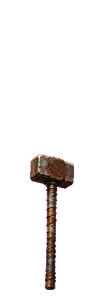
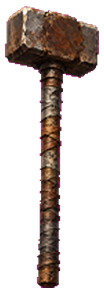
Gravemark: weapons fill their canvases, swings keep the arms in range, trail only through the strike
The delivered weapons sat in the lower half of their canvas, so every one
drew at half size with the grip off the hand and the scythe was a stick;
they are refit with the grip at the bottom. Wind-ups that turned an upper
arm 150-190 degrees over the head hung the painted sleeve upside down off
its pivot; draws now stop about the shoulder line. The trail is thinner and
recorded only through the strike, not the whole arc.

Claude-Session: https://claude.ai/code/session_01L4YgmXtn1U1rMqPTfw2Rbr

diff --git a/gravemark/src/07-data-rig.js b/gravemark/src/07-data-rig.js
@@ -222,15 +222,20 @@ anim("walk", 0.72, true, {
 
 /* --- the hero's five swings ---
    The strike is always the "hit" event; VFX and damage key off it. Root x is
-   the lunge, root sx/sy the impact squash, torso the lean. */
+   the lunge, root sx/sy the impact squash, torso the lean.
+
+   Arm angles stay inside what a painted sleeve can do: an upper arm turned
+   150-190 degrees over the head hangs upside down off its shoulder pivot and
+   reads as a loose chunk, not a wind-up. Draws go to about the shoulder line
+   (-75) and only the maul lifts higher (-110). */
 anim("attack_sword", 0.62, false, {
   root:   [{ t: 0, x: 0, sx: 1, sy: 1 }, { t: 0.32, x: -10, sx: 0.97, sy: 1.03 }, { t: 0.5, x: 30, sx: 1.06, sy: 0.95, e: "out" }, { t: 0.78, x: 18 }, { t: 1, x: 0, sx: 1, sy: 1 }],
   torso:  [{ t: 0, a: 0 }, { t: 0.32, a: -16 }, { t: 0.5, a: 22 }, { t: 0.78, a: 10 }, { t: 1, a: 0 }],
   head:   [{ t: 0, a: 0 }, { t: 0.32, a: 8 }, { t: 0.5, a: -10 }, { t: 1, a: 0 }],
-  uarm_f: [{ t: 0, a: 0 }, { t: 0.32, a: -150 }, { t: 0.5, a: 20, e: "out" }, { t: 0.78, a: 40 }, { t: 1, a: 0 }],
-  farm_f: [{ t: 0, a: 0 }, { t: 0.32, a: -60 }, { t: 0.5, a: 30 }, { t: 0.78, a: 20 }, { t: 1, a: 0 }],
+  uarm_f: [{ t: 0, a: 0 }, { t: 0.32, a: -75 }, { t: 0.5, a: 20, e: "out" }, { t: 0.78, a: 30 }, { t: 1, a: 0 }],
+  farm_f: [{ t: 0, a: 0 }, { t: 0.32, a: -50 }, { t: 0.5, a: 30 }, { t: 0.78, a: 20 }, { t: 1, a: 0 }],
   weapon: [{ t: 0, a: 0 }, { t: 0.32, a: -40 }, { t: 0.5, a: 60 }, { t: 0.78, a: 50 }, { t: 1, a: 0 }],
-  uarm_b: [{ t: 0, a: 0 }, { t: 0.32, a: 30 }, { t: 0.5, a: -40 }, { t: 1, a: 0 }],
+  uarm_b: [{ t: 0, a: 0 }, { t: 0.32, a: 20 }, { t: 0.5, a: -30 }, { t: 1, a: 0 }],
   thigh_f:[{ t: 0, a: 0 }, { t: 0.5, a: -24 }, { t: 1, a: 0 }],
   thigh_b:[{ t: 0, a: 0 }, { t: 0.5, a: 20 }, { t: 1, a: 0 }]
 }, [{ t: 0.5, name: "hit" }]);
@@ -248,10 +253,10 @@ anim("attack_maul", 0.92, false, {
   root:   [{ t: 0, x: 0, sx: 1, sy: 1 }, { t: 0.4, x: -12, sy: 1.04 }, { t: 0.58, x: 24, sx: 1.12, sy: 0.88, e: "out" }, { t: 0.72, x: 22, sx: 1.0, sy: 1.0 }, { t: 1, x: 0 }],
   torso:  [{ t: 0, a: 0 }, { t: 0.4, a: -26 }, { t: 0.58, a: 38 }, { t: 0.72, a: 34 }, { t: 1, a: 0 }],
   head:   [{ t: 0, a: 0 }, { t: 0.4, a: 14 }, { t: 0.58, a: -16 }, { t: 1, a: 0 }],
-  uarm_f: [{ t: 0, a: 0 }, { t: 0.4, a: -190 }, { t: 0.58, a: 30, e: "out" }, { t: 0.72, a: 40 }, { t: 1, a: 0 }],
-  farm_f: [{ t: 0, a: 0 }, { t: 0.4, a: -30 }, { t: 0.58, a: 20 }, { t: 1, a: 0 }],
-  uarm_b: [{ t: 0, a: 0 }, { t: 0.4, a: 170 }, { t: 0.58, a: -30 }, { t: 0.72, a: -40 }, { t: 1, a: 0 }],
-  farm_b: [{ t: 0, a: 0 }, { t: 0.4, a: 30 }, { t: 0.58, a: -20 }, { t: 1, a: 0 }],
+  uarm_f: [{ t: 0, a: 0 }, { t: 0.4, a: -110 }, { t: 0.58, a: 30, e: "out" }, { t: 0.72, a: 40 }, { t: 1, a: 0 }],
+  farm_f: [{ t: 0, a: 0 }, { t: 0.4, a: -40 }, { t: 0.58, a: 20 }, { t: 1, a: 0 }],
+  uarm_b: [{ t: 0, a: 0 }, { t: 0.4, a: -60 }, { t: 0.58, a: 20 }, { t: 0.72, a: 20 }, { t: 1, a: 0 }],
+  farm_b: [{ t: 0, a: 0 }, { t: 0.4, a: -30 }, { t: 0.58, a: 0 }, { t: 1, a: 0 }],
   weapon: [{ t: 0, a: 0 }, { t: 0.4, a: -30 }, { t: 0.58, a: 70 }, { t: 0.72, a: 74 }, { t: 1, a: 0 }],
   thigh_f:[{ t: 0, a: 0 }, { t: 0.58, a: -34 }, { t: 1, a: 0 }],
   thigh_b:[{ t: 0, a: 0 }, { t: 0.58, a: 26 }, { t: 1, a: 0 }]
@@ -270,9 +275,9 @@ anim("attack_scythe", 0.8, false, {
   root:   [{ t: 0, x: 0, sx: 1 }, { t: 0.36, x: -14, sx: 0.96 }, { t: 0.55, x: 26, sx: 1.08, sy: 0.96, e: "out" }, { t: 0.8, x: 16 }, { t: 1, x: 0, sx: 1, sy: 1 }],
   torso:  [{ t: 0, a: 0 }, { t: 0.36, a: -30 }, { t: 0.55, a: 34 }, { t: 0.8, a: 20 }, { t: 1, a: 0 }],
   head:   [{ t: 0, a: 0 }, { t: 0.36, a: 12 }, { t: 0.55, a: -14 }, { t: 1, a: 0 }],
-  uarm_f: [{ t: 0, a: 0 }, { t: 0.36, a: -120 }, { t: 0.55, a: 60, e: "out" }, { t: 0.8, a: 70 }, { t: 1, a: 0 }],
-  farm_f: [{ t: 0, a: 0 }, { t: 0.36, a: -20 }, { t: 0.55, a: 10 }, { t: 1, a: 0 }],
-  uarm_b: [{ t: 0, a: 0 }, { t: 0.36, a: 90 }, { t: 0.55, a: -70 }, { t: 1, a: 0 }],
+  uarm_f: [{ t: 0, a: 0 }, { t: 0.36, a: -70 }, { t: 0.55, a: 45, e: "out" }, { t: 0.8, a: 50 }, { t: 1, a: 0 }],
+  farm_f: [{ t: 0, a: 0 }, { t: 0.36, a: -30 }, { t: 0.55, a: 10 }, { t: 1, a: 0 }],
+  uarm_b: [{ t: 0, a: 0 }, { t: 0.36, a: 35 }, { t: 0.55, a: -35 }, { t: 1, a: 0 }],
   weapon: [{ t: 0, a: 0 }, { t: 0.36, a: -60 }, { t: 0.55, a: 40 }, { t: 0.8, a: 50 }, { t: 1, a: 0 }],
   thigh_f:[{ t: 0, a: 0 }, { t: 0.55, a: -28 }, { t: 1, a: 0 }],
   thigh_b:[{ t: 0, a: 0 }, { t: 0.55, a: 24 }, { t: 1, a: 0 }]
@@ -284,9 +289,9 @@ anim("attack_scythe", 0.8, false, {
 anim("attack_claw", 0.66, false, {
   root:   [{ t: 0, x: 0 }, { t: 0.3, x: -10 }, { t: 0.5, x: 28, sx: 1.06, sy: 0.95, e: "out" }, { t: 1, x: 0, sx: 1, sy: 1 }],
   torso:  [{ t: 0, a: 0 }, { t: 0.3, a: -14 }, { t: 0.5, a: 24 }, { t: 1, a: 0 }],
-  uarm_f: [{ t: 0, a: 0 }, { t: 0.3, a: -120 }, { t: 0.5, a: 10, e: "out" }, { t: 1, a: 0 }],
+  uarm_f: [{ t: 0, a: 0 }, { t: 0.3, a: -75 }, { t: 0.5, a: 10, e: "out" }, { t: 1, a: 0 }],
   farm_f: [{ t: 0, a: 0 }, { t: 0.3, a: -50 }, { t: 0.5, a: -40 }, { t: 1, a: 0 }],
-  uarm_b: [{ t: 0, a: 0 }, { t: 0.3, a: -100 }, { t: 0.55, a: 0 }, { t: 1, a: 0 }],
+  uarm_b: [{ t: 0, a: 0 }, { t: 0.3, a: -60 }, { t: 0.55, a: 0 }, { t: 1, a: 0 }],
   head:   [{ t: 0, a: 0 }, { t: 0.5, a: -12 }, { t: 1, a: 0 }]
 }, [{ t: 0.5, name: "hit" }]);
 

diff --git a/gravemark/index.html b/gravemark/index.html
@@ -11,7 +11,7 @@
 <link rel="manifest" href="manifest.webmanifest">
 <link rel="apple-touch-icon" href="icons/icon-192.png">
 <title>Gravemark</title>
-<link rel="stylesheet" href="css/main.css?v=b015-fresh">
+<link rel="stylesheet" href="css/main.css?v=b016-limbs">
 </head>
 <body>
 <div id="app" data-view="delves">
@@ -81,27 +81,27 @@
 <div id="toasts"></div>
 <div id="overlayWrap" hidden><div id="overlay"></div></div>
 
-<script src="src/00-util.js?v=b015-fresh"></script>
-<script src="src/01-data-kit.js?v=b015-fresh"></script>
-<script src="src/03-data-world.js?v=b015-fresh"></script>
-<script src="src/04-data-meta.js?v=b015-fresh"></script>
-<script src="src/05-data-heroes.js?v=b015-fresh"></script>
-<script src="src/07-data-rig.js?v=b015-fresh"></script>
-<script src="src/10-state.js?v=b015-fresh"></script>
-<script src="src/11-stats.js?v=b015-fresh"></script>
-<script src="src/12-rewards.js?v=b015-fresh"></script>
-<script src="src/13-combat.js?v=b015-fresh"></script>
-<script src="src/14-graves.js?v=b015-fresh"></script>
-<script src="src/15-inscribe.js?v=b015-fresh"></script>
-<script src="src/16-modes.js?v=b015-fresh"></script>
-<script src="src/17-offline.js?v=b015-fresh"></script>
-<script src="src/18-assets.js?v=b015-fresh"></script>
-<script src="src/20-vfx.js?v=b015-fresh"></script>
-<script src="src/30-ui.js?v=b015-fresh"></script>
-<script src="src/31-ui-hub.js?v=b015-fresh"></script>
-<script src="src/32-ui-battle.js?v=b015-fresh"></script>
-<script src="src/33-ui-roster.js?v=b015-fresh"></script>
-<script src="src/34-ui-overlay.js?v=b015-fresh"></script>
-<script src="src/99-boot.js?v=b015-fresh"></script>
+<script src="src/00-util.js?v=b016-limbs"></script>
+<script src="src/01-data-kit.js?v=b016-limbs"></script>
+<script src="src/03-data-world.js?v=b016-limbs"></script>
+<script src="src/04-data-meta.js?v=b016-limbs"></script>
+<script src="src/05-data-heroes.js?v=b016-limbs"></script>
+<script src="src/07-data-rig.js?v=b016-limbs"></script>
+<script src="src/10-state.js?v=b016-limbs"></script>
+<script src="src/11-stats.js?v=b016-limbs"></script>
+<script src="src/12-rewards.js?v=b016-limbs"></script>
+<script src="src/13-combat.js?v=b016-limbs"></script>
+<script src="src/14-graves.js?v=b016-limbs"></script>
+<script src="src/15-inscribe.js?v=b016-limbs"></script>
+<script src="src/16-modes.js?v=b016-limbs"></script>
+<script src="src/17-offline.js?v=b016-limbs"></script>
+<script src="src/18-assets.js?v=b016-limbs"></script>
+<script src="src/20-vfx.js?v=b016-limbs"></script>
+<script src="src/30-ui.js?v=b016-limbs"></script>
+<script src="src/31-ui-hub.js?v=b016-limbs"></script>
+<script src="src/32-ui-battle.js?v=b016-limbs"></script>
+<script src="src/33-ui-roster.js?v=b016-limbs"></script>
+<script src="src/34-ui-overlay.js?v=b016-limbs"></script>
+<script src="src/99-boot.js?v=b016-limbs"></script>
 </body>
 </html>

diff --git a/gravemark/src/32-ui-battle.js b/gravemark/src/32-ui-battle.js
@@ -437,8 +437,9 @@ function drawActor(ctx, p, a, fx, fy, size, now) {
   /* remember where this actor stands, for numbers and bursts */
   a.pos = { x: fx, y: fy };
 
-  /* trail only while swinging */
-  if (tip && /^attack/.test(a.anim.clip)) {
+  /* trail only through the strike itself, not the draw-back or the recovery:
+     a big weapon's whole arc drew a crescent the size of the figure */
+  if (tip && /^attack/.test(a.anim.clip) && a.anim.t > 0.28 && a.anim.t < 0.66) {
     var tx = rigMode ? (tip.x - 128) * scale : (tip.x - 128) * scale;
     var ty = rigMode ? (tip.y - 246) * scale : (tip.y - 246) * scale;
     p.vfx.trail(a.id, fx + (left ? -tx : tx), fy + ty, now);

diff --git a/gravemark/src/20-vfx.js b/gravemark/src/20-vfx.js
@@ -83,7 +83,7 @@ GM.Vfx.Panel.prototype.draw = function (ctx, w, h, now, dt) {
     for (i = 1; i < t.length; i++) {
       var age = (now - t[i].t) / (TRAIL_LIFE * 1000);
       ctx.strokeStyle = "rgba(232,226,209," + (0.8 * (1 - age)) + ")";
-      ctx.lineWidth = Math.max(1.5, (h * 0.03) * (1 - age) * (i / t.length));
+      ctx.lineWidth = Math.max(1, (h * 0.014) * (1 - age) * (i / t.length));
       ctx.beginPath();
       ctx.moveTo(t[i - 1].x, t[i - 1].y);
       ctx.lineTo(t[i].x, t[i].y);

diff --git a/gravemark/src/00-util.js b/gravemark/src/00-util.js
@@ -5,7 +5,7 @@
 
 var GM = window.GM || (window.GM = {});
 
-GM.BUILD = "b015-fresh";
+GM.BUILD = "b016-limbs";
 GM.TITLE = "Gravemark";
 
 /* ---------- RNG ---------------------------------------------------------
